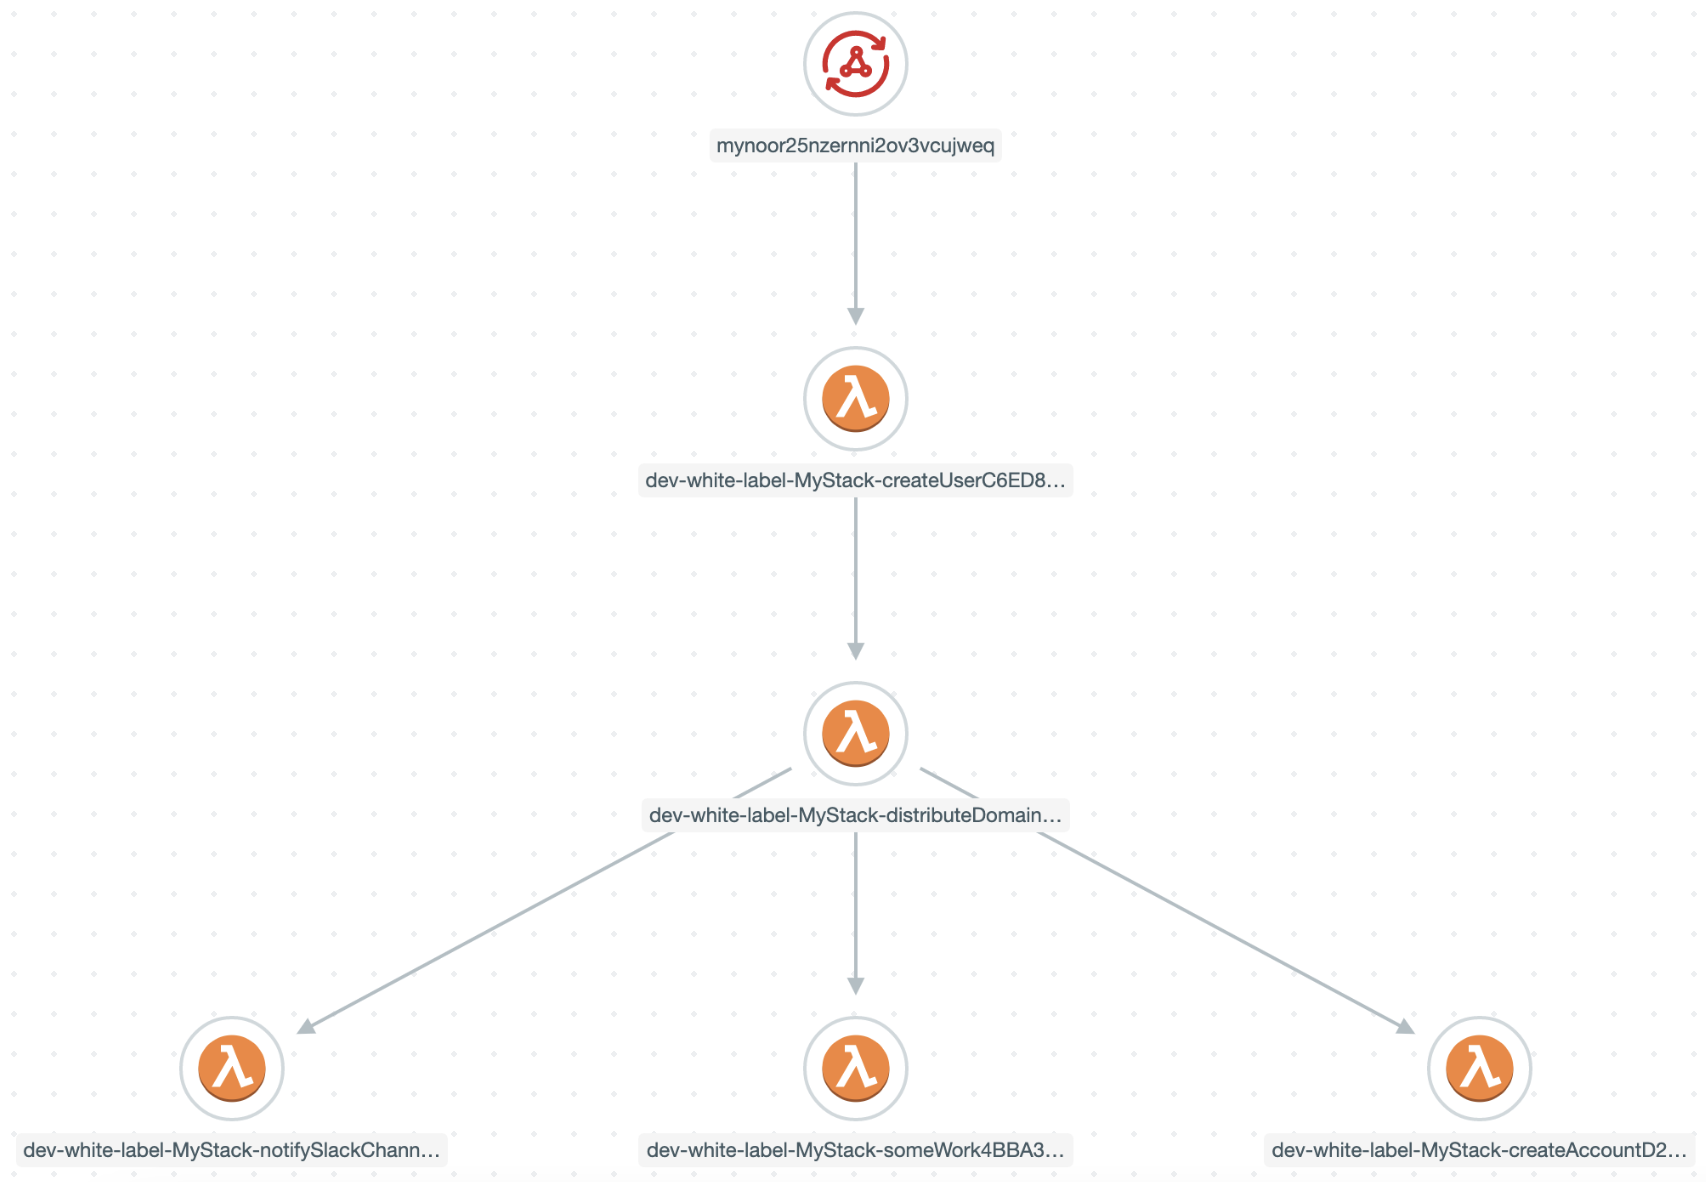
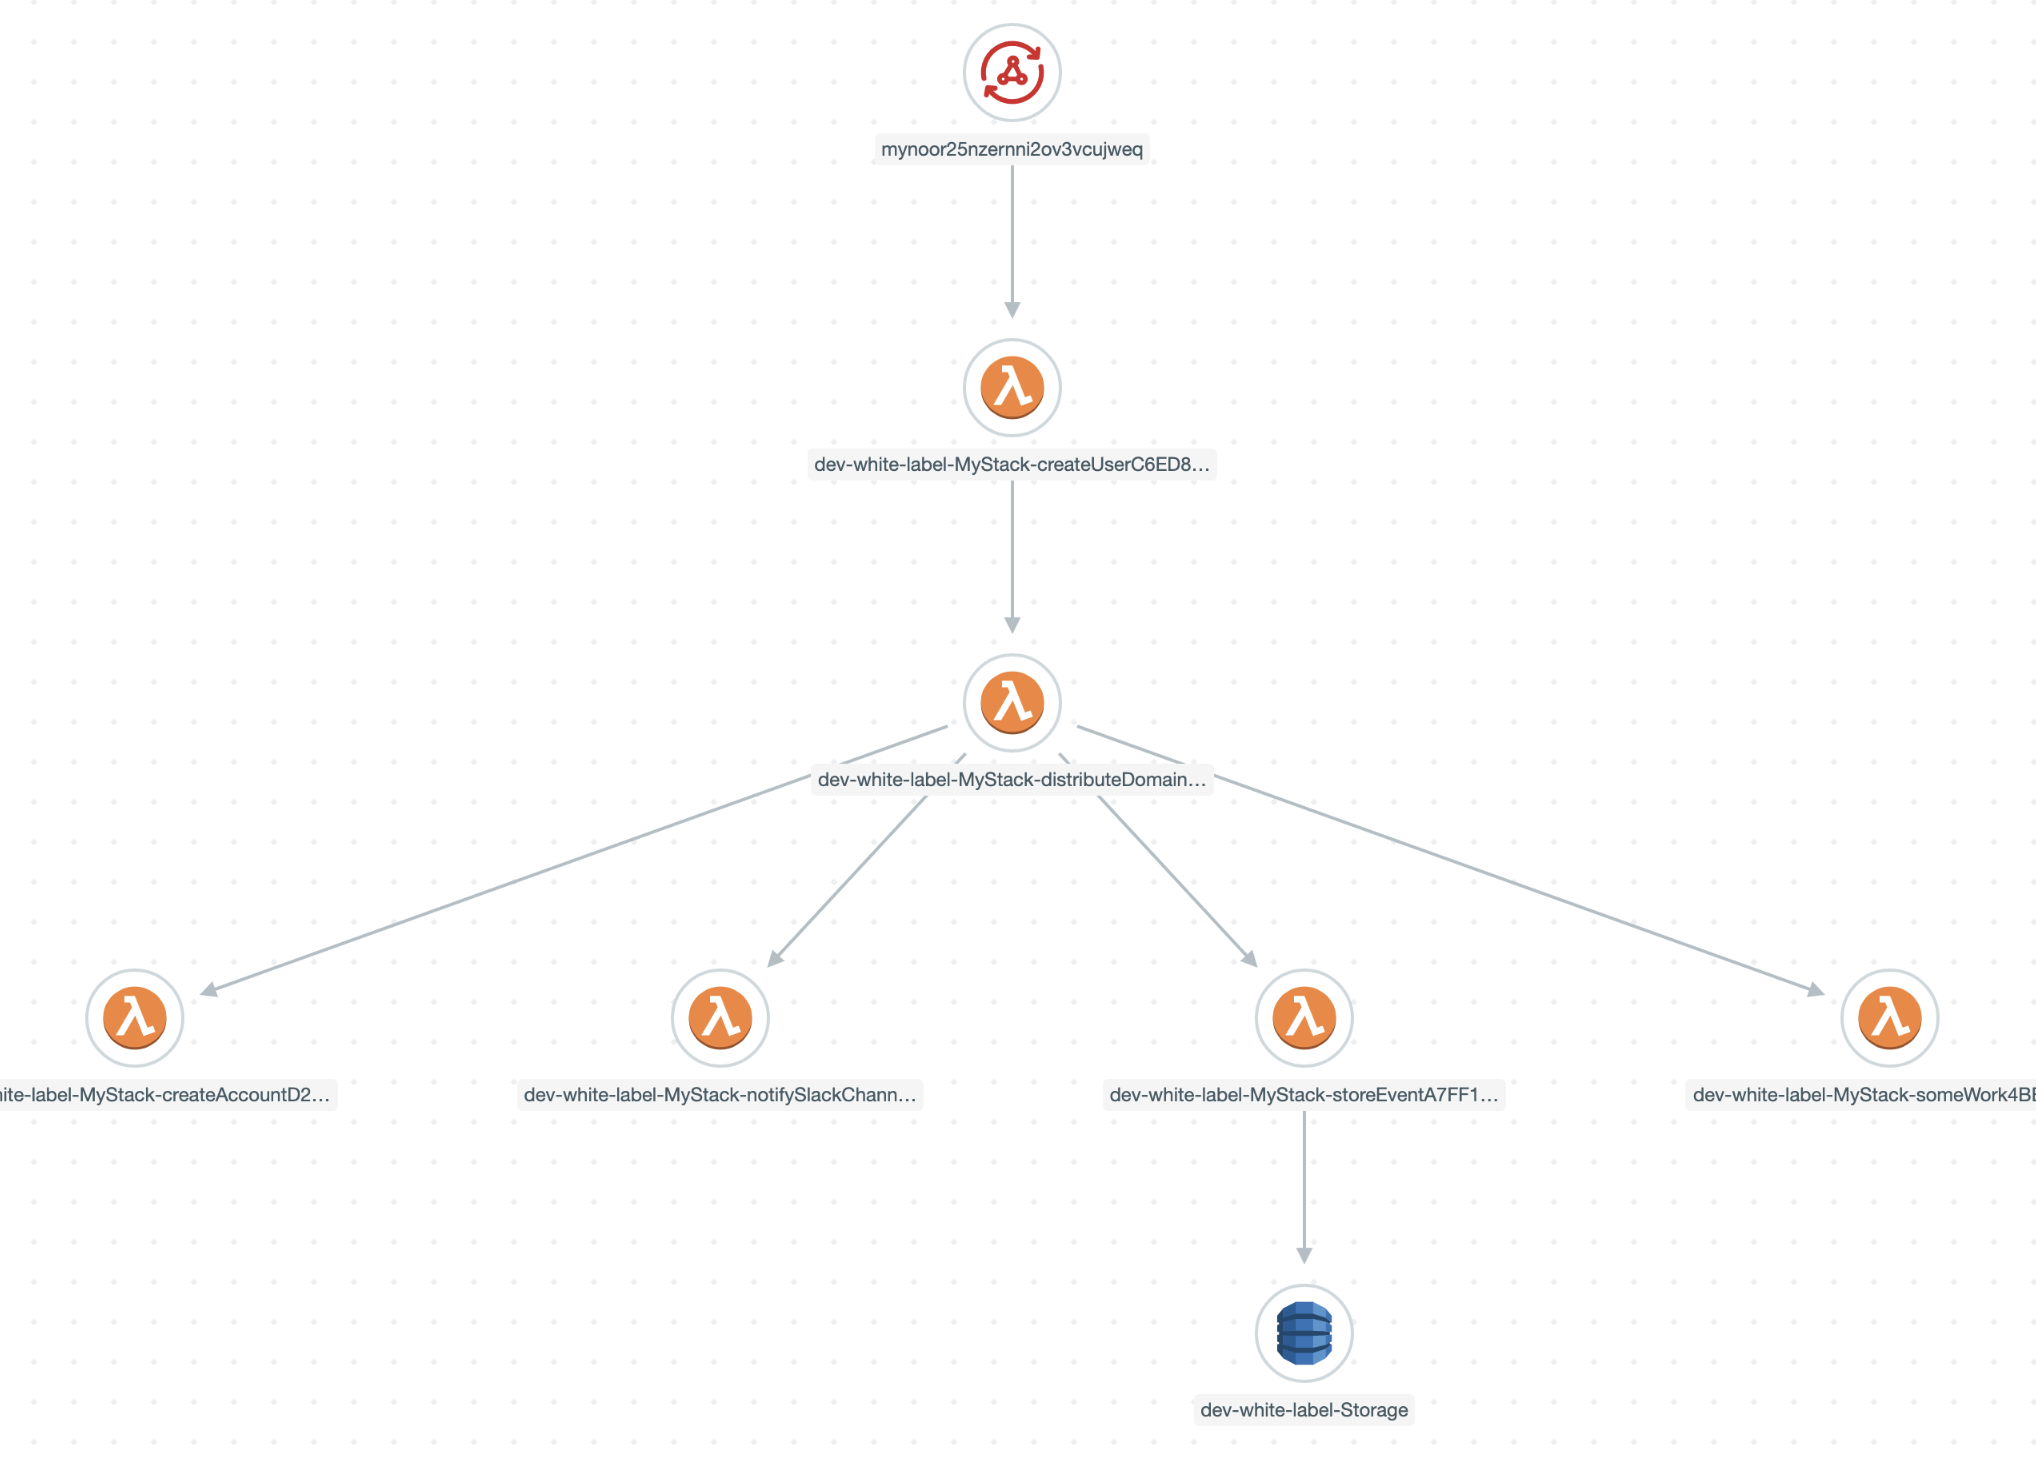
docs: update README.md
[skip ci]

diff --git a/README.md b/README.md
@@ -2,15 +2,15 @@
 
 Domain Events are a fundamental building block in DDD, if you want to indicate an event that is significant to your app, raise this event and let other modules of your app subscribe and react to it.
 
-This project exemplifies a `CreateUser` use case and how we can trigger an event signaling we have a new user onboard.
+This project exemplifies a `CreateUser` use case and how we can trigger an event, signaling we have a new user onboard.
 
-Domain events (e.g. [UserCreatedEvent](src/modules/users/domain/events/UserCreatedEvent.ts)) are dispatched after the aggregates ([User](src/modules/users/domain/User.ts)) changes are persisted in the database. We can subscribe to it from the same module ([SomeWork](src/modules/users/useCases/someWork/SomeWork.ts)) or a different one ([NotifySlackChannel](src/modules/notification/useCases/notifySlackChannel/NotifySlackChannel.ts), [CreateAccount](src/modules/accounts/useCases/createAccount/CreateAccount.ts)).
+Domain events (e.g. [UserCreatedEvent](src/modules/users/domain/events/UserCreatedEvent.ts)) are dispatched after the aggregates ([User](src/modules/users/domain/User.ts)) changes are persisted in the database. We can subscribe to it from the same module ([SomeWork](src/modules/users/useCases/someWork/SomeWork.ts)) or a different one ([StoreEvent](src/modules/audit/useCases/storeEvent/StoreEvent.ts), [NotifySlackChannel](src/modules/notification/useCases/notifySlackChannel/NotifySlackChannel.ts), [CreateAccount](src/modules/accounts/useCases/createAccount/CreateAccount.ts)).
 
 Communication in the same module is given as an example but using domain events for intra-module/app communication inside a same domain model may involve adding an indirection that doesn't add value and a direct/explicit flow is more convenient.
 
 The lambda entry point for `CreateUser` use case is [src/modules/users/useCases/createUser/index.ts](src/modules/users/useCases/createUser/index.ts), there we:
 * Create [CreateUser](src/modules/users/useCases/createUser/CreateUser.ts) controller
-* In `CreateUser.constructor` we register `UserCreatedEvent` to an intermediate lambda [DistributeDomainEvents](src/shared/infra/dispatchEvents/DistributeDomainEvents.ts) that will invoke all its subscribers (`CreateAccount`, `NotifySlackChannel` and `SomeWork` lambdas).
+* In `CreateUser.constructor` we register `UserCreatedEvent` to an intermediate lambda [DistributeDomainEvents](src/shared/infra/dispatchEvents/DistributeDomainEvents.ts) that will invoke all its subscribers (`StoreEvent`, `CreateAccount`, `NotifySlackChannel` and `SomeWork` lambdas).
 
 This is the transaction tracing from [Lumigo](https://lumigo.io):
 
@@ -22,7 +22,7 @@ This is the transaction tracing from [Lumigo](https://lumigo.io):
 
 ## Timelines
 
-If it's been some time since last request, we get cold starts and the execution of lambdas takes ~3s, below we can spot 3 cold starts:
+If it's been some time since last request, we get cold starts and the execution of `createUser` takes ~1,2s, while all the invoked lambdas (`distributeDomainEvents`, `createAccount`, `notifySlackChannel`, `storeEvent` and `someWrok`) take an extra ~2,1s, so the whole distributed transaction takes ~3,3s:
 
 <br />
 <p align="center">
@@ -30,7 +30,7 @@ If it's been some time since last request, we get cold starts and the execution 
 </p>
 <br />
 
-If we repeat a request in the next 5m, we don't have cold starts and they take ~700ms:
+If we repeat a request in the next 5m, we don't have cold starts, `createUser` takes 240ms, all the invoked lambdas an extra ~280ms, so the whole distributed transaction takes ~520ms:
 
 <br />
 <p align="center">
@@ -49,15 +49,16 @@ Unit tests (with faked repos):
     - Users: [User](src/modules/users/domain/User.unit.ts)
     - Accounts: [Account](src/modules/accounts/domain/Account.ts) (with internal entity [Transaction](src/modules/accounts/domain/Transaction.unit.ts))
 - Use cases/controllers: 
-    - Users: [CreateUser](src/modules/users/useCases/createUser/CreateUser.unit.ts) , [SomeWork](src/modules/users/useCases/someWork/SomeWork.unit.ts)
-    - Notification: [NotifySlackChannel](src/modules/notification/useCases/notifySlackChannel/NotifySlackChannel.unit.ts)
+    - Users: [CreateUser](src/modules/users/useCases/createUser/CreateUser.unit.ts), [SomeWork](src/modules/users/useCases/someWork/SomeWork.unit.ts)
+    - Notification: [NotifySlackChannel](src/modules/notification/useCases/notifySlackChannel/NotifySlackChannel.unit.ts), [NotifyFE](src/modules/notification/useCases/notifyFE/NotifyFE.unit.ts)
     - Accounts: [CreateTransaction](src/modules/accounts/useCases/createTransaction/CreateTransaction.unit.ts), [GetAccountByUserId](src/modules/accounts/useCases/getAccountByUserId/GetAccountByUserId.unit.ts), [Transfer](src/modules/accounts/useCases/transfer/Transfer.unit.ts)
+    - Audit: [StoreEvent](src/modules/audit/useCases/storeEvent/StoreEvent.unit.ts)
 
 Integration tests (real repos):
 
 - Users:
+  - [CreateUser](src/modules/users/useCases/createUser/CreateUser.int.ts), 
   - Domain event registration and dispatching [CreateUserEvents](src/modules/users/useCases/createUser/CreateUserEvents.int.ts)
-  - [CreateUser](src/modules/users/useCases/createUser/CreateUser.int.ts)
 - Accounts:
   - [Transfer](src/modules/accounts/useCases/transfer/Transfer.int.ts)
   - [GetAccountByUserId](src/modules/accounts/useCases/getAccountByUserId/GetAccountByUserId.int.ts)
@@ -66,15 +67,17 @@ Integration tests (real repos):
 E2E test:
 
 - Users:
-    - [CreateUser](src/modules/users/useCases/createUser/CreateUser.e2e.ts)
+  - [CreateUser](src/modules/users/useCases/createUser/CreateUser.e2e.ts)
 - Accounts:
-    - [Transfer](src/modules/accounts/useCases/transfer/Transfer.e2e.ts)
-    - [GetAccountByUserId](src/modules/accounts/useCases/getAccountByUserId/GetAccountByUserId.e2e.ts)
-    - [CreateTransaction](src/modules/accounts/useCases/createTransaction/CreateTransaction.e2e.ts)
+  - [Transfer](src/modules/accounts/useCases/transfer/Transfer.e2e.ts)
+  - [GetAccountByUserId](src/modules/accounts/useCases/getAccountByUserId/GetAccountByUserId.e2e.ts)
+  - [CreateTransaction](src/modules/accounts/useCases/createTransaction/CreateTransaction.e2e.ts)
+- Notifications:
+  - [NotifyFE](src/modules/notification/useCases/notifyFE/NotifyFE.e2e.ts)
 
 ## Stack
 
-* DB: PostgreSQL [CockroachDB](https://www.cockroachlabs.com) Serverless
+* DBs: PostgreSQL [CockroachDB](https://www.cockroachlabs.com) Serverless and DynamoDB
 * ORM: [Sequelize](https://sequelize.org)
 * IaC: [SST Serverless Stack](https://sst.dev)
 * AWS services: Lambda, AppSync, Systems Manager Parameter Store 
@@ -86,11 +89,11 @@ I've used **SST Serverless Stack** as it allows debugging lambda code locally wh
 
 I started this project using Khalil Stemmler's [white-label](https://github.com/stemmlerjs/white-label) `users` module and applied some concepts based on [Vladimir Khorikov](https://enterprisecraftsmanship.com) courses where he tackles DDD in a great way.
 
-I also added `accounts` module, transactions support, refactored from REST to GraphQL API, turned it into serverless and wrote a bunch of tests.
+I also added modules `accounts`, `audit`, use case `NotifyFE`, transactions support, refactored from REST to GraphQL API, turned it into serverless and wrote a bunch of tests.
 
 ## Instructions
 
 ```
-npm i
+npm ci
 npm test
 ```
